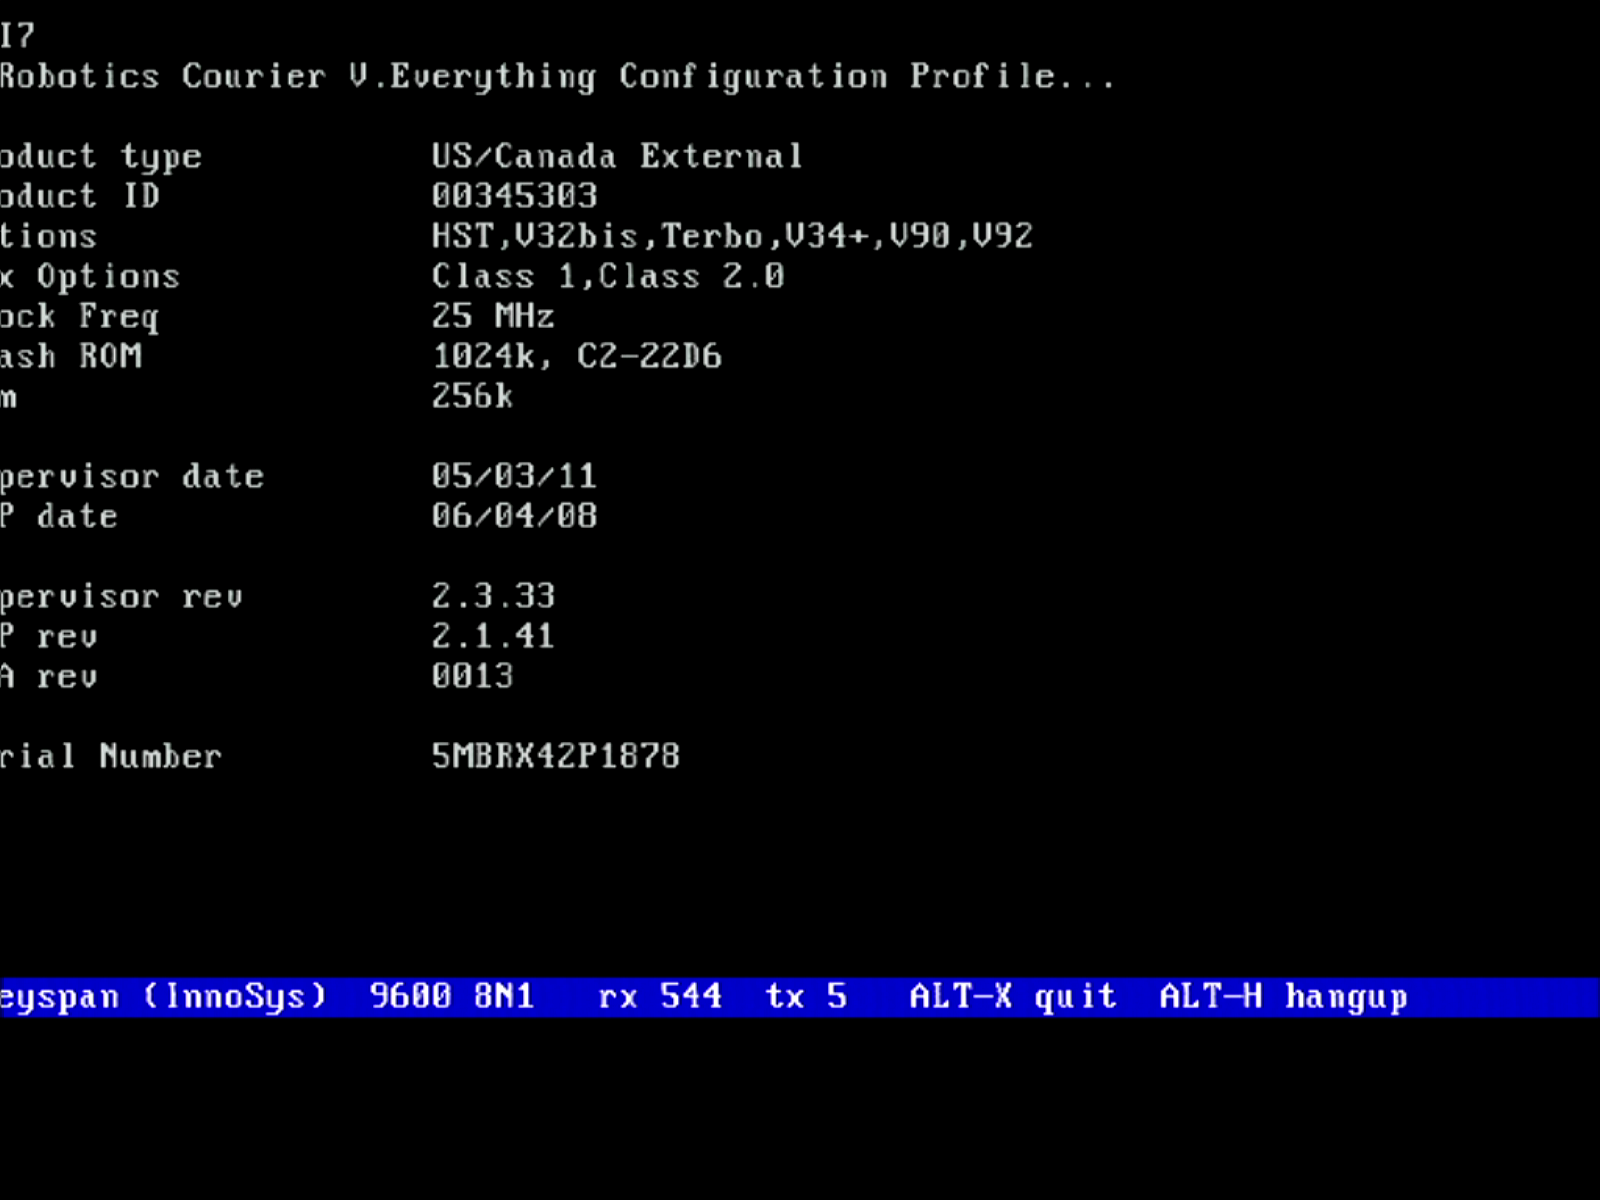
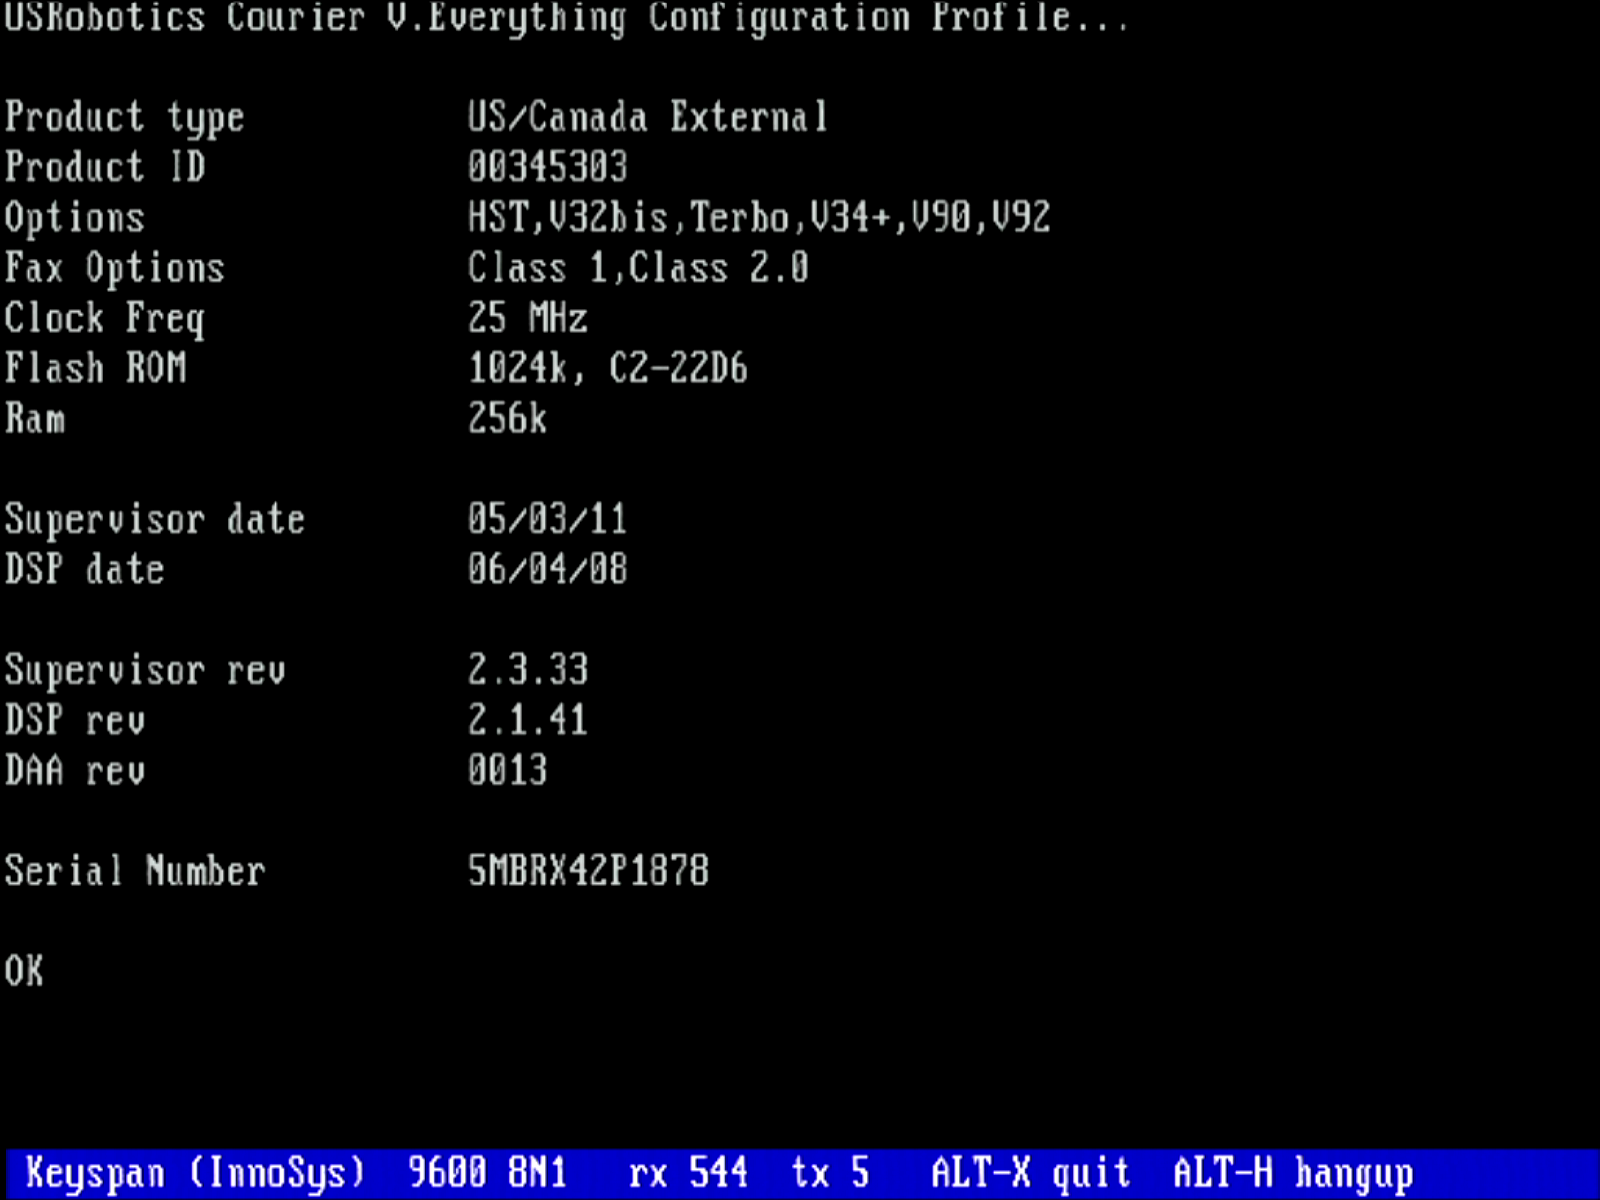
Talk about the hardware generically, and refresh the screenshots
Two changes, and one judgement call worth stating.

GENERIC PHRASING. The docs and program output described everything as
happening on one particular machine -- "an 8086-class DOS machine", "An 8086
running DOS talks to", "from the 8086, through the CH375", "measured on this
hardware", "the video card in this machine boots to mono". None of that is
what these projects are about: the CH375 layer, the adapters and the
protocols are the subject, and the box they were developed against is an
implementation detail of the testing. It now reads as the host, a vintage DOS
machine, a period host -- and the measurements are kept, because the numbers
are the evidence and only the machine's identity was noise.

THE JUDGEMENT CALL, because a blind sweep would have done damage. Plenty of
remaining 8086 references are ARCHITECTURAL rather than positional: "the
assembler targets 8086 and is right to refuse them as source", "an 8086 does
not care about alignment", "the chip is little-endian and so is the 8086",
"cpu 8086: no near conditional jumps". Those are facts about an instruction
set that the code genuinely depends on, and deleting them would remove real
meaning to satisfy a search-and-replace. They stay. So does the "what this
was tested on" section in GUIDE.md, which is exactly the place a specific
machine belongs.

One sentence needed repairing by hand afterwards: dropping the machine from
davol's coprocessor note left "a coprocessor cannot be assumed and the tools
[…]

diff --git a/CH375Serial/README.md b/CH375Serial/README.md
@@ -1,9 +1,9 @@
 # CH375Serial
 
-USB-to-serial adapters on an 8086-class DOS machine, through a CH375 USB host
+USB-to-serial adapters on a vintage DOS machine, through a CH375 USB host
 card.
 
-**Status: it works.** An 8086 running DOS talks to a USRobotics Courier
+**Status: it works.** A DOS machine talks to a USRobotics Courier
 V.Everything modem through a CH375 and a USB-to-serial adapter, at up to
 **38400 baud**, with `AT` commands and multi-line replies coming back cleanly.
 
@@ -25,8 +25,8 @@ opposite of a USB speaker on every count that mattered there:
 | rate | 192,000 B/s, hard 1 ms deadline | **11,520 B/s at 115200 baud** |
 | late data | an audible click | a byte that arrives late |
 
-Against ~19,000 bytes/second measured on this hardware, **the link is not the
-limit**. Both ends buffer, which is the property that decides everything on
+Against the ~19,000 bytes/second this collection has measured, **the link is not
+the limit**. Both ends buffer, which is the property that decides everything on
 this bus — see the rule in the collection's [top-level README](../README.md).
 
 ---
@@ -114,7 +114,7 @@ the baud rate all out of the picture — `AT` + CR comes straight back:
   RX  2: 00 0D  |..|
 ```
 
-So everything from the 8086, through the CH375, through USB, into the adapter
+So everything from the host, through the CH375, through USB, into the adapter
 and back is working.
 
 **And it caught a trap worth the whole exercise:** every bulk IN packet carries
@@ -127,7 +127,7 @@ recalled.
 
 ### It talks to a real modem
 
-A USRobotics Courier V.Everything, over the adapter, from the 8086:
+A USRobotics Courier V.Everything, over the adapter, from DOS:
 
 ```
   TX  5: 41 54 49 37 0D  |ATI7.|
@@ -141,7 +141,7 @@ A USRobotics Courier V.Everything, over the adapter, from the 8086:
   < OK
 ```
 
-That is the whole chain: an 8086, a CH375, USB, a Keyspan adapter, RS-232, and
+That is the whole chain: the host, a CH375, USB, a Keyspan adapter, RS-232, and
 a modem answering.
 
 ### Dialling: the modem works, the line does not
@@ -345,7 +345,7 @@ nothing, which is why it prints a DOS summary on the way out; otherwise a run
 over the bridge returns an empty log and looks like a program that never
 started.
 
-**Mono is probed, not assumed.** The video card in this machine boots to mono
+**Mono is probed, not assumed.** Some video cards boot to mono
 on some power cycles and colour on others with no configuration change, so the
 segment and the attributes are decided at run time from `INT 10h AH=1Ah`. A
 terminal that hardcodes `B800` writes into nothing on those boots and looks
@@ -421,7 +421,7 @@ where the text ends.
 
 **Scrolling was slow enough to drop serial data.** `ScrollUp` was a Pascal loop
 over `MemW[]`, and every `MemW[]` access reloads a far pointer — `BENCH`
-measures about 58,640 a second on this machine. A scroll is 1920 reads plus
+measures about 58,640 a second on a period host. A scroll is 1920 reads plus
 1920 writes, so roughly **65 ms during which the program is not reading the USB
 port at all**. At 9600 baud that is sixty-odd characters, more than a whole
 packet, and the lost bytes included line feeds — so the symptom was lines

diff --git a/CH375Audio/README.md b/CH375Audio/README.md
@@ -1,6 +1,6 @@
 # CH375Audio
 
-USB audio devices on an 8086-class DOS machine, through a CH375 USB host card.
+USB audio devices on a vintage DOS machine, through a CH375 USB host card.
 
 **Playback is not possible, and this project says so with measurements rather
 than with a shrug** — including the measurement that proves bytes *do* reach
@@ -34,7 +34,7 @@ for* on hardware that cannot stream to it.
 | Playing audio | **impossible** — `DAISO` measures why |
 
 Tested against a Jieli Technology `UACDemoV1.0` (`4C4A:4155`), a common cheap
-USB speaker, on an NEC V30 at 8086 speeds with a CH375 rev B7 at I/O 260h.
+USB speaker, with a CH375 rev B7 at I/O 260h.
 
 ---
 
@@ -105,7 +105,7 @@ being carried, not merely rattling the device.
 *packet* cadence rather than the waveform we sent: the device wants 1000
 packets a second and gets 138, so it is starved 95% of the time and what you
 hear is it reacting to that. It is a controllable noise source — and a worse
-one than the PC speaker this machine already has, so it is a curiosity rather
+one than the PC speaker the machine already has, so it is a curiosity rather
 than a feature.
 
 `DAISO /HAMMER=secs` sends flat out for long enough to record; `/ZERO` sends
@@ -125,7 +125,7 @@ It isn't. `/FAST` issues the token and moves on without waiting at all:
 | **needed** | **1000** | **192,000** |
 
 Removing the wait entirely changed nothing, which means the limit is the cost
-of pushing bytes through the CH375's port interface on an 8086 — the same wall
+of pushing bytes through the CH375's port interface — the same wall
 `DLBENCH` measures at ~19 KB/s for larger transfers. **4.6% of what the stream
 needs**, and not improvable by being cleverer about transfers.
 
@@ -325,7 +325,7 @@ never reaches USB. On this unit, nothing moved.
 
 ### One thing worth knowing before buying a speaker to test with
 
-**This speaker will never make a sound on this machine**, and that is not a
+**A USB speaker will never make a sound on a host like this**, and that is not a
 limitation of these tools — its only input is USB, and USB audio cannot be
 streamed from a CH375. Controlling its volume works, and it is the volume of
 silence. Another USB speaker will behave the same way; the three walls are

diff --git a/README.md b/README.md
@@ -31,7 +31,7 @@ which is rather the point.
 | **[CH375Net](CH375Net/)** | **1.0.0 — it is on the internet.** `USBPKT.COM`, a Crynwr packet driver for a USB Ethernet adapter. One command, like `NE2000.COM`. Pings 8.8.8.8, resolves DNS, fetches web pages, telnets to a BBS, and has moved 10 MB byte-exact. [INSTALL.md](CH375Net/INSTALL.md) · [ADAPTERS.md](CH375Net/ADAPTERS.md) |
 | **[CH375Video](CH375Video/)** | **A second screen over USB.** Eight tools driving a **DisplayLink** USB-to-VGA/DVI adapter: a text console, a colour dashboard with gauges, a 3D wireframe cube, Conway's Life, a Mandelbrot, and a BMP loader that scales to fit. 640×480 to 1280×1024. Every screenshot in its README is a photograph of the real output |
 | **[CH375Audio](CH375Audio/)** | **A USB speaker as a mixer and a button panel.** Four tools for USB Audio Class devices: decode the topology, set volume and mute over control transfers, and read the transport buttons off the HID interface. **Playing audio is impossible** and the project measures why rather than asserting it — the stream is isochronous, wants 192-byte packets, and needs 192 KB/s against 19 KB/s measured |
-| **[CH375Serial](CH375Serial/)** | **It talks to a modem.** An 8086 drives a USB-to-serial adapter and holds an AT-command conversation with a USRobotics Courier V.Everything at up to **38400 baud**. The ceiling is the USB packet rate, not the UART — the same number that set the video project's frame rate and killed the audio one |
+| **[CH375Serial](CH375Serial/)** | **It talks to a modem.** DOS drives a USB-to-serial adapter and holds an AT-command conversation with a USRobotics Courier V.Everything at up to **38400 baud**. The ceiling is the USB packet rate, not the UART — the same number that set the video project's frame rate and killed the audio one |
 
 Each project has its own `README.md`, `CHANGELOG.md`, `build.cmd` and
 `bin\`. The binaries are committed deliberately: the machine this targets

diff --git a/CH375Audio/CHANGELOG.md b/CH375Audio/CHANGELOG.md
@@ -33,7 +33,7 @@ source, and a worse one than the PC speaker already in the machine.
 objection was that EpOut waits for an acknowledgement that never comes, so the
 rate measures waiting rather than sending. /FAST issues the token and moves on:
 138 packets/s against 131 with the wait. No difference. The limit is the cost
-of pushing bytes through the CH375 on an 8086 -- 8,844 bytes/s against 192,000
+of pushing bytes through the CH375 -- 8,844 bytes/s against 192,000
 needed, 4.6%, and not improvable by better transfer handling.
 
 **A slower rate was asked for and refused.** SET_CUR of the endpoint's
@@ -136,7 +136,7 @@ revision or an unusual device gets tested instead of being talked out of it
 by a comment -- the same reason CH375Video keeps its FL2000 findings.
 
 **Verified against** a Jieli Technology `UACDemoV1.0` (`4C4A:4155`) on an
-NEC V30 with a CH375 rev B7 at I/O 260h. Volume written and read back at
+a CH375 rev B7 at I/O 260h. Volume written and read back at
 both ends of the device's range; mute set, read, toggled, read. The one
 path **not** observed is an actual button press -- the poll loop runs and
 the endpoint NAKs cleanly, but nobody has pressed a button while `DAKEYS`
